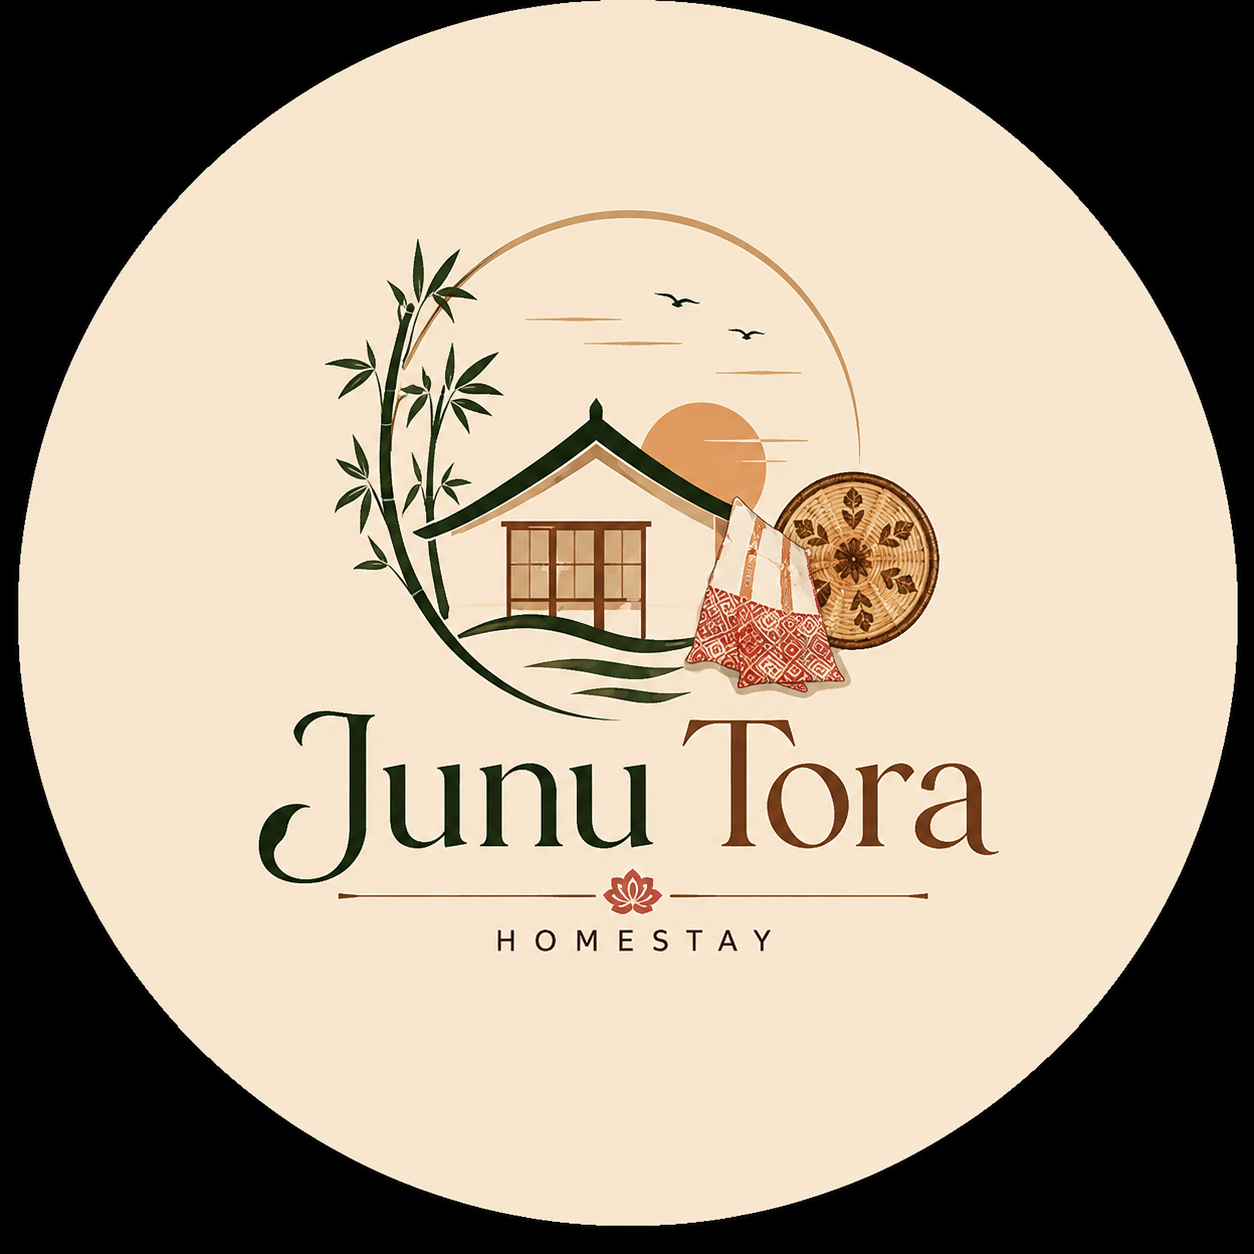
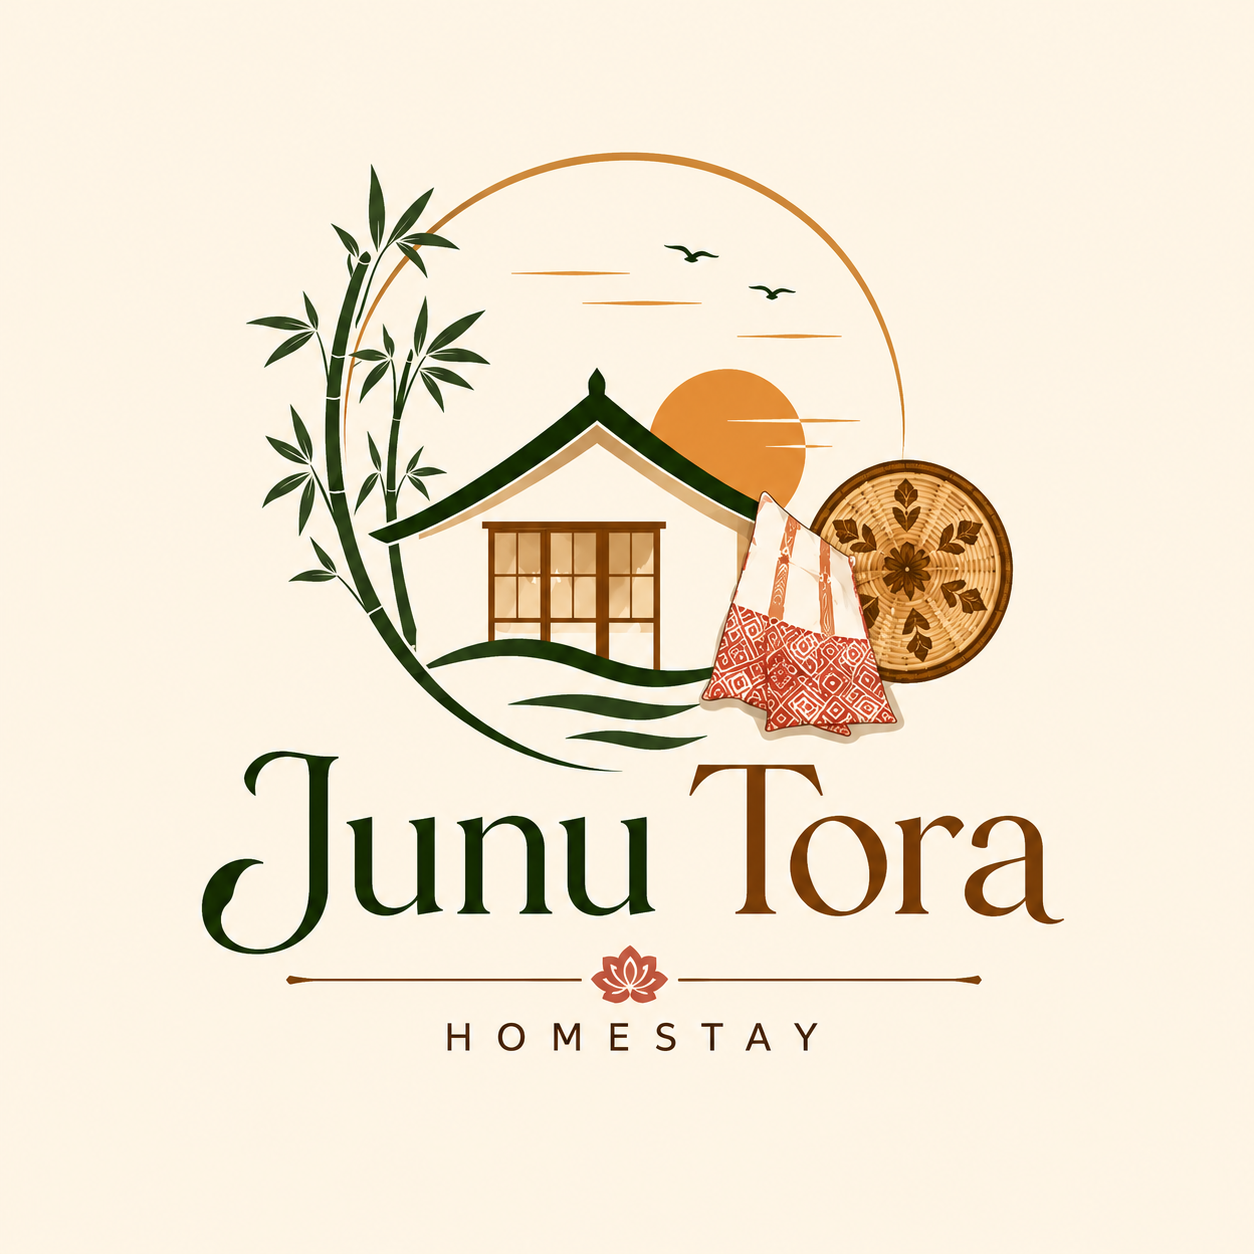
Update Rang Nirman and Junu Tora Homestay images and details

diff --git a/index.html b/index.html
@@ -2087,7 +2087,7 @@
         <!-- Venture 1: Rang Nirman -->
         <article class="venture-card reveal-up">
           <div class="venture-image">
-            <img src="photos/rangnirman.jpg" alt="Rang Nirman building and flats venture associated with Ashok Kumar Neog" data-fallback-title="Rang Nirman" data-fallback-subtitle="Building & Flats Venture" loading="lazy" decoding="async">
+            <img src="photos/rangnirman.jpg" alt="Rang Nirman venture associated with Ashok Kumar Neog" data-fallback-title="Rang Nirman" data-fallback-subtitle="Building & Flats Venture" loading="lazy" decoding="async">
           </div>
           <div class="venture-content">
             <span class="venture-role">MANAGING DIRECTOR</span>
@@ -2307,10 +2307,10 @@
         </div>
 
         <!-- Item 4 -->
-        <div class="gallery-item small" data-src="photos/rangnirman.jpg" data-title="Rang Nirman">
-          <img src="photos/rangnirman.jpg" alt="Rang Nirman building and flats venture associated with Ashok Kumar Neog" data-fallback-title="Rang Nirman" data-fallback-subtitle="Building & Flats Venture" loading="lazy" decoding="async">
+        <div class="gallery-item small" data-src="photos/rangnirman.jpg" data-title="Rang Nirman building and flats venture">
+          <img src="photos/rangnirman.jpg" alt="Rang Nirman building and flats venture" data-fallback-title="Rang Nirman" data-fallback-subtitle="Building & Flats Venture" loading="lazy" decoding="async">
           <div class="gallery-overlay">
-            <span class="gallery-caption">Rang Nirman building and flats venture associated with Ashok Kumar Neog</span>
+            <span class="gallery-caption">Rang Nirman building and flats venture</span>
           </div>
         </div>
 
@@ -2331,7 +2331,7 @@
         </div>
 
         <!-- Item 7 -->
-        <div class="gallery-item large" data-src="photos/junutorahomestay.jpg" data-title="Junu Tora Homestay">
+        <div class="gallery-item large" data-src="photos/junutorahomestay.jpg" data-title="Junu Tora Homestay Dibrugarh Assam">
           <img src="photos/junutorahomestay.jpg" alt="Junu Tora Homestay Dibrugarh Assam" data-fallback-title="Junu Tora Homestay" data-fallback-subtitle="Hospitality Venture" loading="lazy" decoding="async">
           <div class="gallery-overlay">
             <span class="gallery-caption">Junu Tora Homestay Dibrugarh Assam</span>